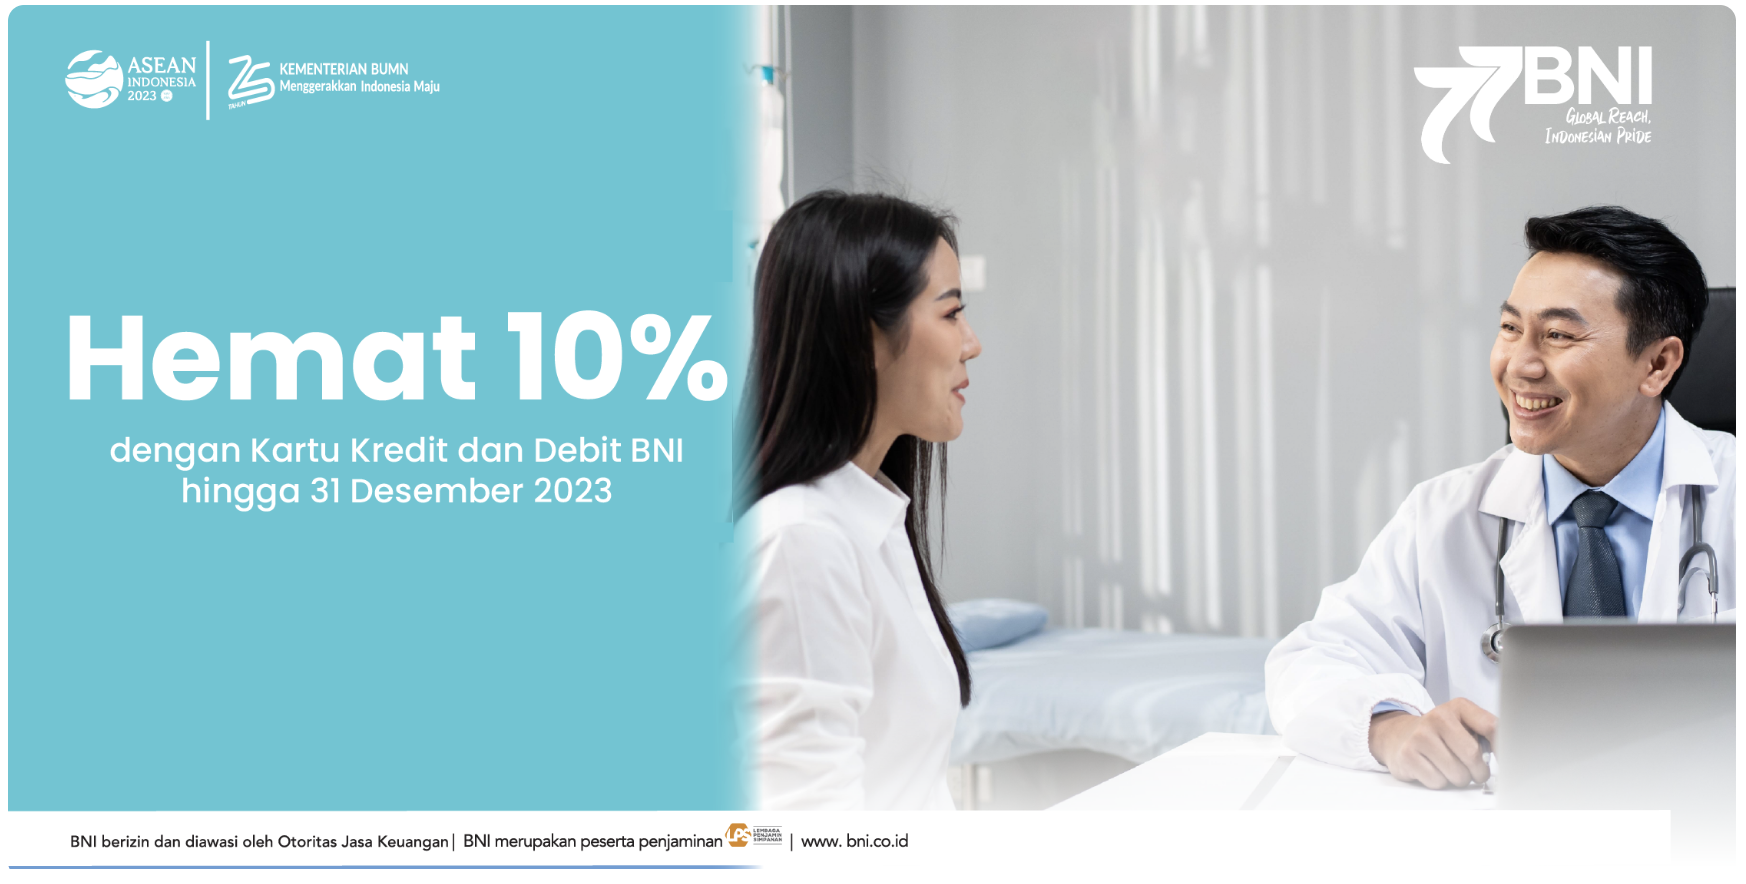
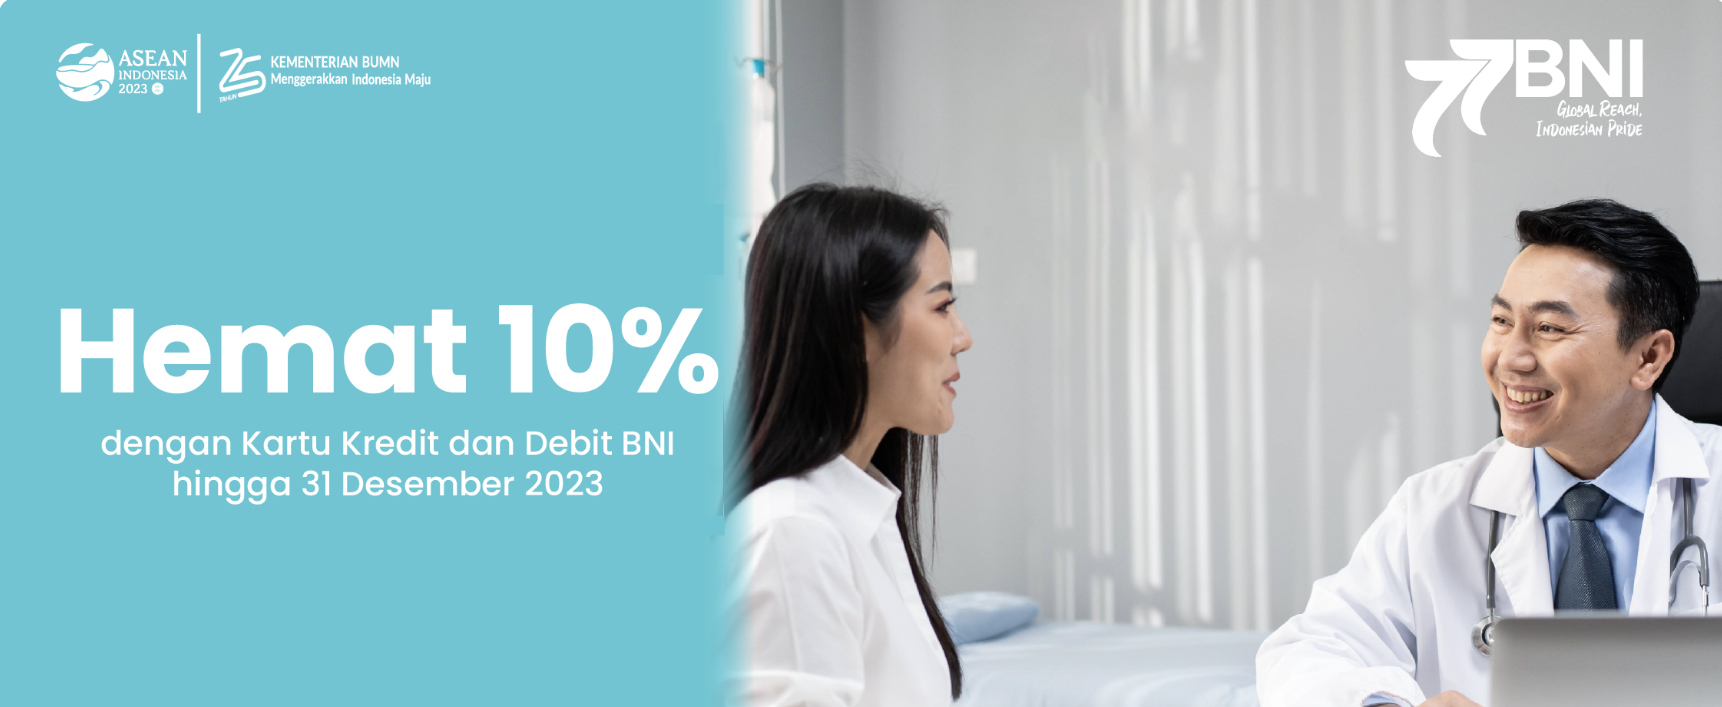
slider 100% done

diff --git a/app/componen/penawaran/index.tsx b/app/componen/penawaran/index.tsx
@@ -8,7 +8,7 @@ import lanjut from "public/selanjutnya.png";
 
 const Work = () => {
   const slides = [
-    "/banner/carousel-1.svg",
+    "/banner/baner.png",
     "/banner/carousel-2.svg",
     "/banner/carousel-3.svg",
     "/banner/carousel-4.svg",
@@ -41,7 +41,7 @@ const Work = () => {
             cascade
             damping={1e-1}
             triggerOnce={true}>
-            <h3 className='text-3xl lg:text-5xl font-normal mb-5 text-lightgrey md:4px lg:text-center'>
+            <h3 className='text-3xl lg:text-5xl font-normal mb-12 text-lightgrey md:4px lg:text-center'>
               Penawaran Spesial
             </h3>
           </Fade>
@@ -53,7 +53,7 @@ const Work = () => {
             damping={1e-1}
             triggerOnce={true}>
             <div id='carousel-example' className='relative w-full'>
-              <div className='relative h-56 overflow-hidden rounded-3xl sm:h-64 xl:h-80 2xl:h-96'>
+              <div className='relative layout_slider overflow-hidden radiuss '>
                 {slides.map((slide, index) => (
                   <div
                     key={index}
@@ -76,7 +76,7 @@ const Work = () => {
                     key={index}
                     onClick={() => setActiveSlide(index)}
                     className={`h-3 w-3 rounded-full ${
-                      index === activeSlide ? "bg-blue-500" : "bg-gray-300"
+                      index === activeSlide ? "bg-[#169091]" : "bg-gray-300"
                     }`}
                     aria-label={`Slide ${index + 1}`}></button>
                 ))}

diff --git a/app/globals.css b/app/globals.css
@@ -66,6 +66,16 @@ html {
     height: 60px;
 }
 
+.layout_slider {
+    height: 550px;
+    /* left: 93px; // tidak bisa responsive wkwkw
+    width: 1206px; */
+}
+
+.radiuss{
+    border-radius: 3rem;
+}
+
 .card-b {
     background: linear-gradient(180deg, #F8F6F6 0%, #F8F6F6 0.01%, rgba(248, 246, 246, 0) 100%);
 }
